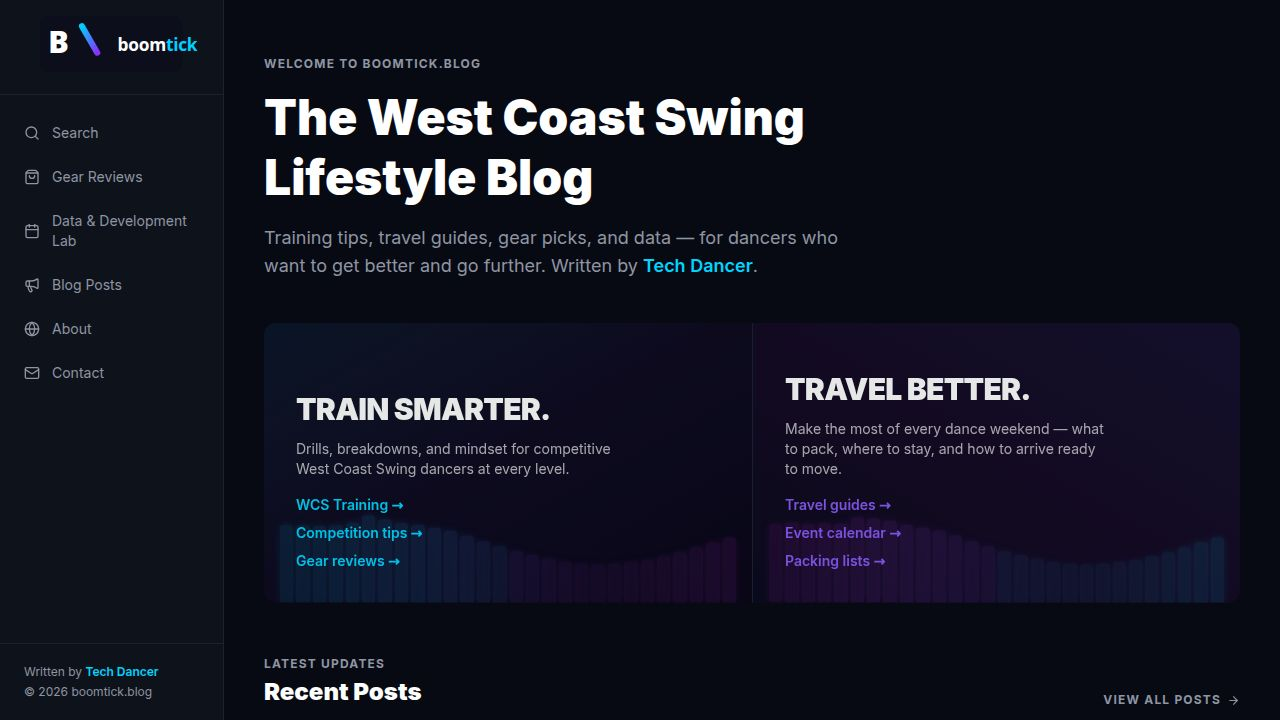
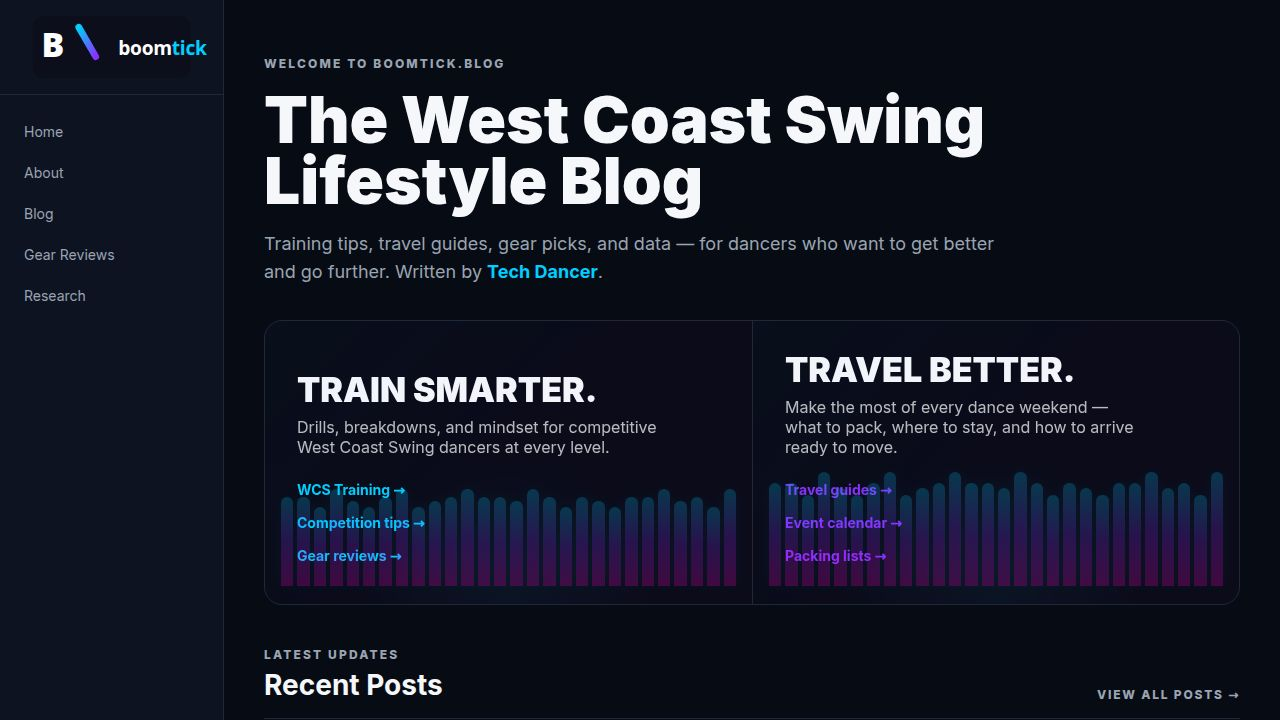
Fix header on mobile devices by removing duplicate navigation elements
Remove redundant mobile navigation component from NavigationShell.tsx.

Replit-Commit-Author: Agent
Replit-Commit-Session-Id: 27bbbc5c-7b53-4a8a-8dc0-20cdd78f84ed
Replit-Commit-Checkpoint-Type: full_checkpoint
Replit-Commit-Event-Id: 80eb137e-ebca-4cd0-acea-34dd6b04049f
Replit-Commit-Screenshot-Url: https://storage.googleapis.com/screenshot-production-us-central1/ad7819ff-dc34-48fe-b5b4-fe82fbdcf5b3/27bbbc5c-7b53-4a8a-8dc0-20cdd78f84ed/UR6b3e8
Replit-Helium-Checkpoint-Created: true

diff --git a/artifacts/boomtick/src/components/navigation/NavigationShell.tsx b/artifacts/boomtick/src/components/navigation/NavigationShell.tsx
@@ -1,62 +1,32 @@
-import { useState } from "react";
 import { Link } from "wouter";
-import { Menu, X } from "lucide-react";
 import Logo from "@/components/Logo";
 import { useSidebarData } from "@/hooks/use-page-data";
 
 const NavigationShell = () => {
-  const [open, setOpen] = useState(false);
   const { primaryNavigation } = useSidebarData();
 
   return (
-    <>
-      <aside className="fixed top-0 left-0 hidden h-full w-56 flex-col border-r border-border bg-card md:flex z-40">
-        <div className="border-b border-border px-4 py-4">
-          <Link href="/" className="inline-flex items-center" data-testid="link-home-logo">
-            <Logo />
-          </Link>
-        </div>
-        <nav className="flex-1 overflow-y-auto py-4">
-          {primaryNavigation.map((item) => (
-            <Link key={item.label} href={item.href} data-testid={`nav-${item.label.toLowerCase().replace(/\s+/g, "-")}`} className="group flex items-center gap-3 px-6 py-3 text-sm text-muted-foreground transition-colors hover:bg-muted/50 hover:text-foreground">
-              <item.icon size={16} className="shrink-0 text-muted-foreground transition-colors group-hover:text-primary" />
-              <span>{item.label}</span>
-            </Link>
-          ))}
-        </nav>
-        <div className="space-y-1 border-t border-border px-6 py-5">
-          <p className="text-xs text-muted-foreground">
-            Written by <span className="font-semibold text-primary">Tech Dancer</span>
-          </p>
-          <p className="text-xs text-muted-foreground">&copy; {new Date().getFullYear()} boomtick.blog</p>
-        </div>
-      </aside>
-
-      <div className="sticky top-0 z-50 md:hidden">
-        <div className="border-b border-border bg-background/98 backdrop-blur">
-          <div className="flex h-12 items-center justify-between px-3">
-            <Link href="/" className="inline-flex items-center" data-testid="link-home-logo-mobile">
-              <div className="origin-left scale-[0.42] -translate-x-5 -translate-y-0.5">
-                <Logo />
-              </div>
-            </Link>
-            <button type="button" onClick={() => setOpen((value) => !value)} className="inline-flex h-8 w-8 items-center justify-center rounded-md border border-border bg-card text-foreground" data-testid="button-toggle-nav" aria-label="Toggle navigation">
-              {open ? <X size={17} /> : <Menu size={17} />}
-            </button>
-          </div>
-        </div>
-        {open ? (
-          <nav className="absolute left-0 right-0 border-b border-border bg-card px-2 py-2 shadow-2xl">
-            {primaryNavigation.map((item) => (
-              <Link key={item.label} href={item.href} onClick={() => setOpen(false)} data-testid={`mobile-nav-${item.label.toLowerCase().replace(/\s+/g, "-")}`} className="flex items-center gap-3 rounded-md px-3 py-2 text-sm text-muted-foreground transition-colors hover:bg-muted/50 hover:text-foreground">
-                <item.icon size={15} className="shrink-0 text-primary" />
-                <span>{item.label}</span>
-              </Link>
-            ))}
-          </nav>
-        ) : null}
+    <aside className="fixed top-0 left-0 hidden h-full w-56 flex-col border-r border-border bg-card md:flex z-40">
+      <div className="border-b border-border px-4 py-4">
+        <Link href="/" className="inline-flex items-center" data-testid="link-home-logo">
+          <Logo />
+        </Link>
       </div>
-    </>
+      <nav className="flex-1 overflow-y-auto py-4">
+        {primaryNavigation.map((item) => (
+          <Link key={item.label} href={item.href} data-testid={`nav-${item.label.toLowerCase().replace(/\s+/g, "-")}`} className="group flex items-center gap-3 px-6 py-3 text-sm text-muted-foreground transition-colors hover:bg-muted/50 hover:text-foreground">
+            <item.icon size={16} className="shrink-0 text-muted-foreground transition-colors group-hover:text-primary" />
+            <span>{item.label}</span>
+          </Link>
+        ))}
+      </nav>
+      <div className="space-y-1 border-t border-border px-6 py-5">
+        <p className="text-xs text-muted-foreground">
+          Written by <span className="font-semibold text-primary">Tech Dancer</span>
+        </p>
+        <p className="text-xs text-muted-foreground">&copy; {new Date().getFullYear()} boomtick.blog</p>
+      </div>
+    </aside>
   );
 };
 
